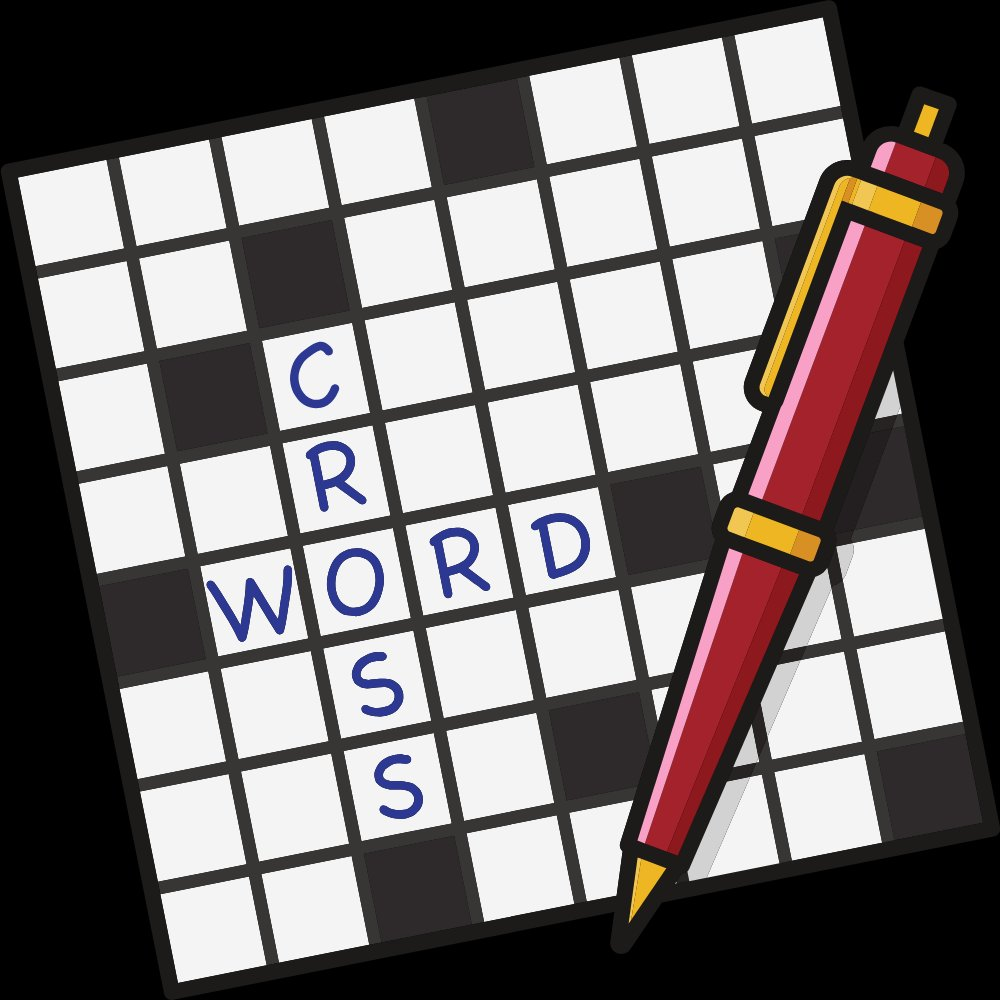
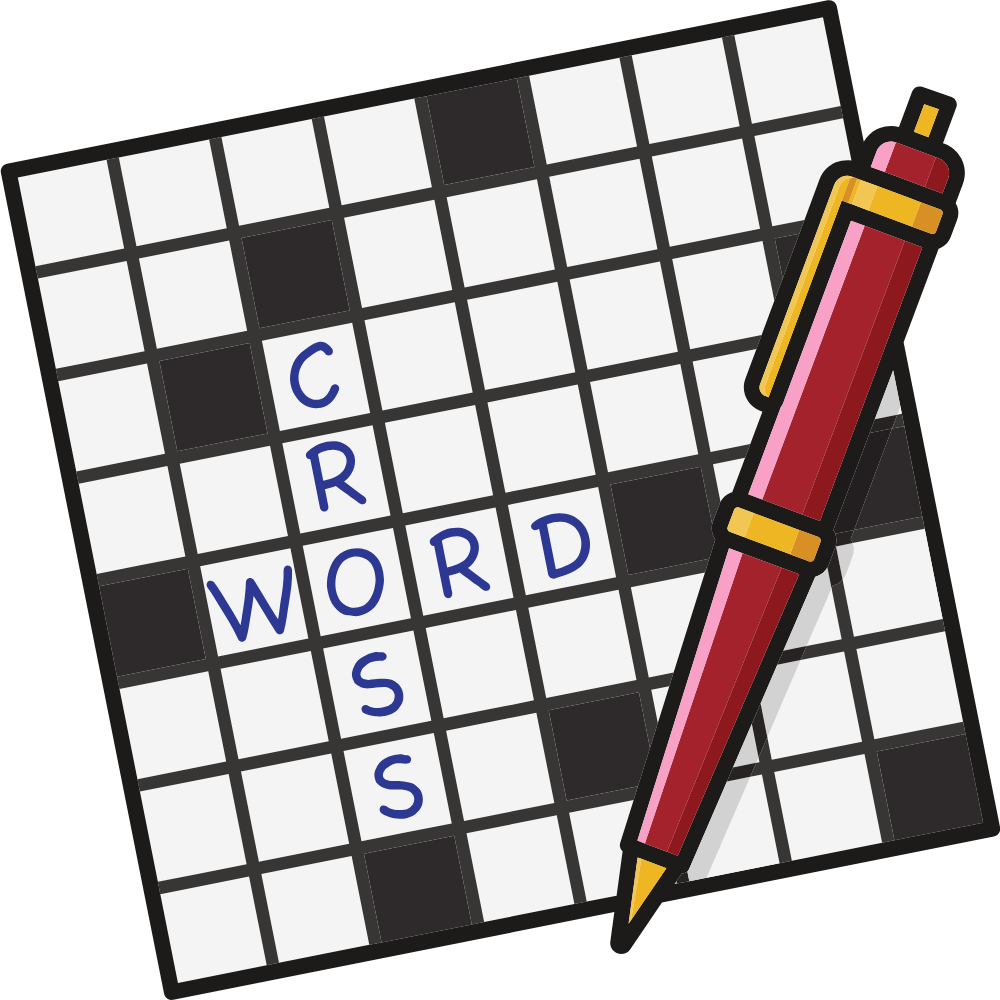
Add files via upload

diff --git a/index.html b/index.html
@@ -567,15 +567,20 @@
       </div>
     </div>
 
-<div class="window window--game2 window--minimized" data-windowBackdrop="true" data-window="game2" style="width:800px;height:540px;min-width:600px;min-height:400px;top:80px;left:300px;">
+<div class="window window--game2 window--minimized" data-windowBackdrop="true" data-window="game2" style="width:700px;height:600px;min-width:500px;min-height:500px;top:80px;left:300px;">
       <div class="window__handler">
         <div class="window__title" style="display:flex;align-items:center;gap:8px;"><img src="kelime-oyunu-icon.png" style="width:16px;height:16px;border-radius:4px;" /> Kelime Oyunu</div>
-        <div class="window__controls"><a class="window__close"></a><a class="window__minimize"></a><a class="window__maximize"></a></div>
+        <div class="window__controls">
+          <a class="window__close"></a>
+          <a class="window__minimize"></a>
+          <a class="window__maximize"></a>
+        </div>
       </div>
-      <div class="window__body">
-        
+      <div class="window__body" style="position:absolute;top:28px;left:0;right:0;bottom:0;overflow:hidden;">
[1 lines of base64/hex data omitted]
       </div>
-      </div>
+    </div>
+
 
 <div class="window window--instagram window--minimized" data-windowBackdrop="true" data-window="instagram" style="width:420px;height:600px;min-width:420px;min-height:500px;top:80px;left:350px;">
       <div class="window__handler">